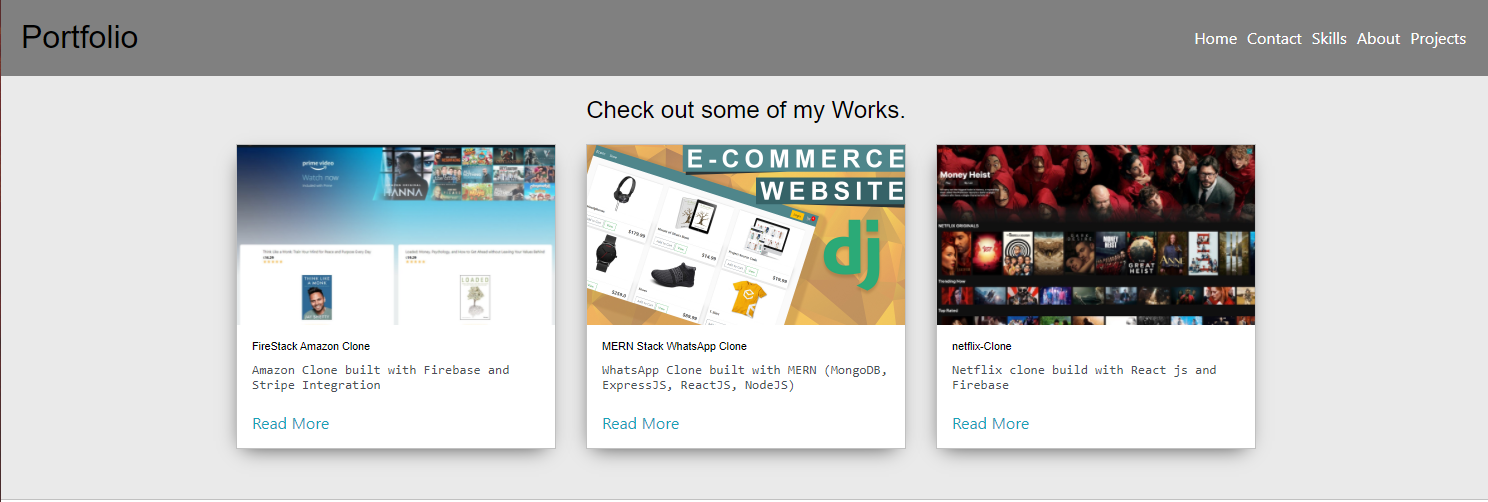
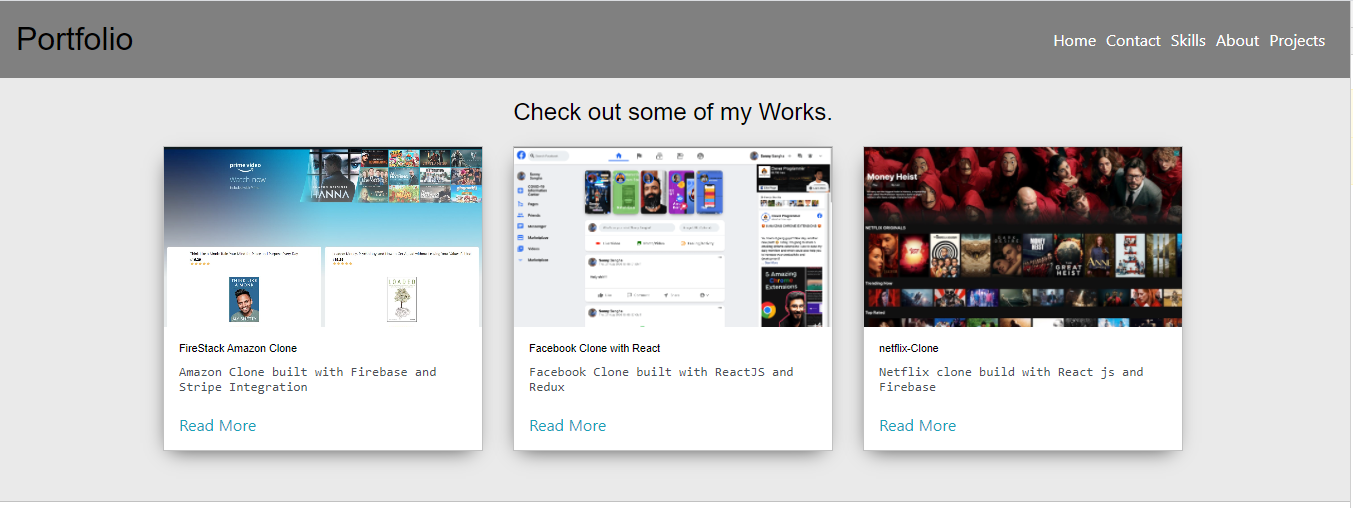
added facebook images and some text to it

diff --git a/src/Projects.js b/src/Projects.js
@@ -1,6 +1,6 @@
 import React from "react";
 import "./Projects.css";
-import ecom from "./images/ecom.jpg";
+import facebook from "./images/facebook-clone.png";
 import amazon from "./images/project-1.PNG";
 import netflix from "./images/netflix-clone.jpeg";
 
@@ -23,7 +23,11 @@ function Projects() {
                 <p className="projects__intro">
                   Amazon Clone built with Firebase and Stripe Integration
                 </p>
-                <a href="https://aclone.web.app" target="_blank">
+                <a
+                  href="https://aclone.web.app"
+                  target="_blank"
+                  rel="noreferrer"
+                >
                   Read More
                 </a>
               </div>
@@ -32,18 +36,18 @@ function Projects() {
 
           <div className="projects__overlay">
             <div className="projects__post">
-              <img className="thumbnail" src={ecom} alt="logo" />
+              <img className="thumbnail" src={facebook} alt="facebook" />
               <div className="projects__preview">
                 <h6 className="projects__post-title">
-                  MERN Stack WhatsApp Clone
+                  Facebook Clone with React
                 </h6>
                 <p className="projects__intro">
-                  WhatsApp Clone built with MERN (MongoDB, ExpressJS, ReactJS,
-                  NodeJS)
+                  Facebook Clone built with ReactJS and Redux
                 </p>
                 <a
-                  href="https://www.youtube.com/watch?v=gzdQDxzW2Tw"
+                  href="https://www.youtube.com/watch?v=B-kxUMHBxNo"
                   target="_blank"
+                  rel="noreferrer"
                 >
                   Read More
                 </a>
@@ -59,7 +63,11 @@ function Projects() {
                 <p className="projects__intro">
                   Netflix clone build with React js and Firebase
                 </p>
-                <a href="https://netflix-clone-acb05.web.app/" target="_blank">
+                <a
+                  href="https://netflix-clone-acb05.web.app/"
+                  target="_blank"
+                  rel="noreferrer"
+                >
                   Read More
                 </a>
               </div>
